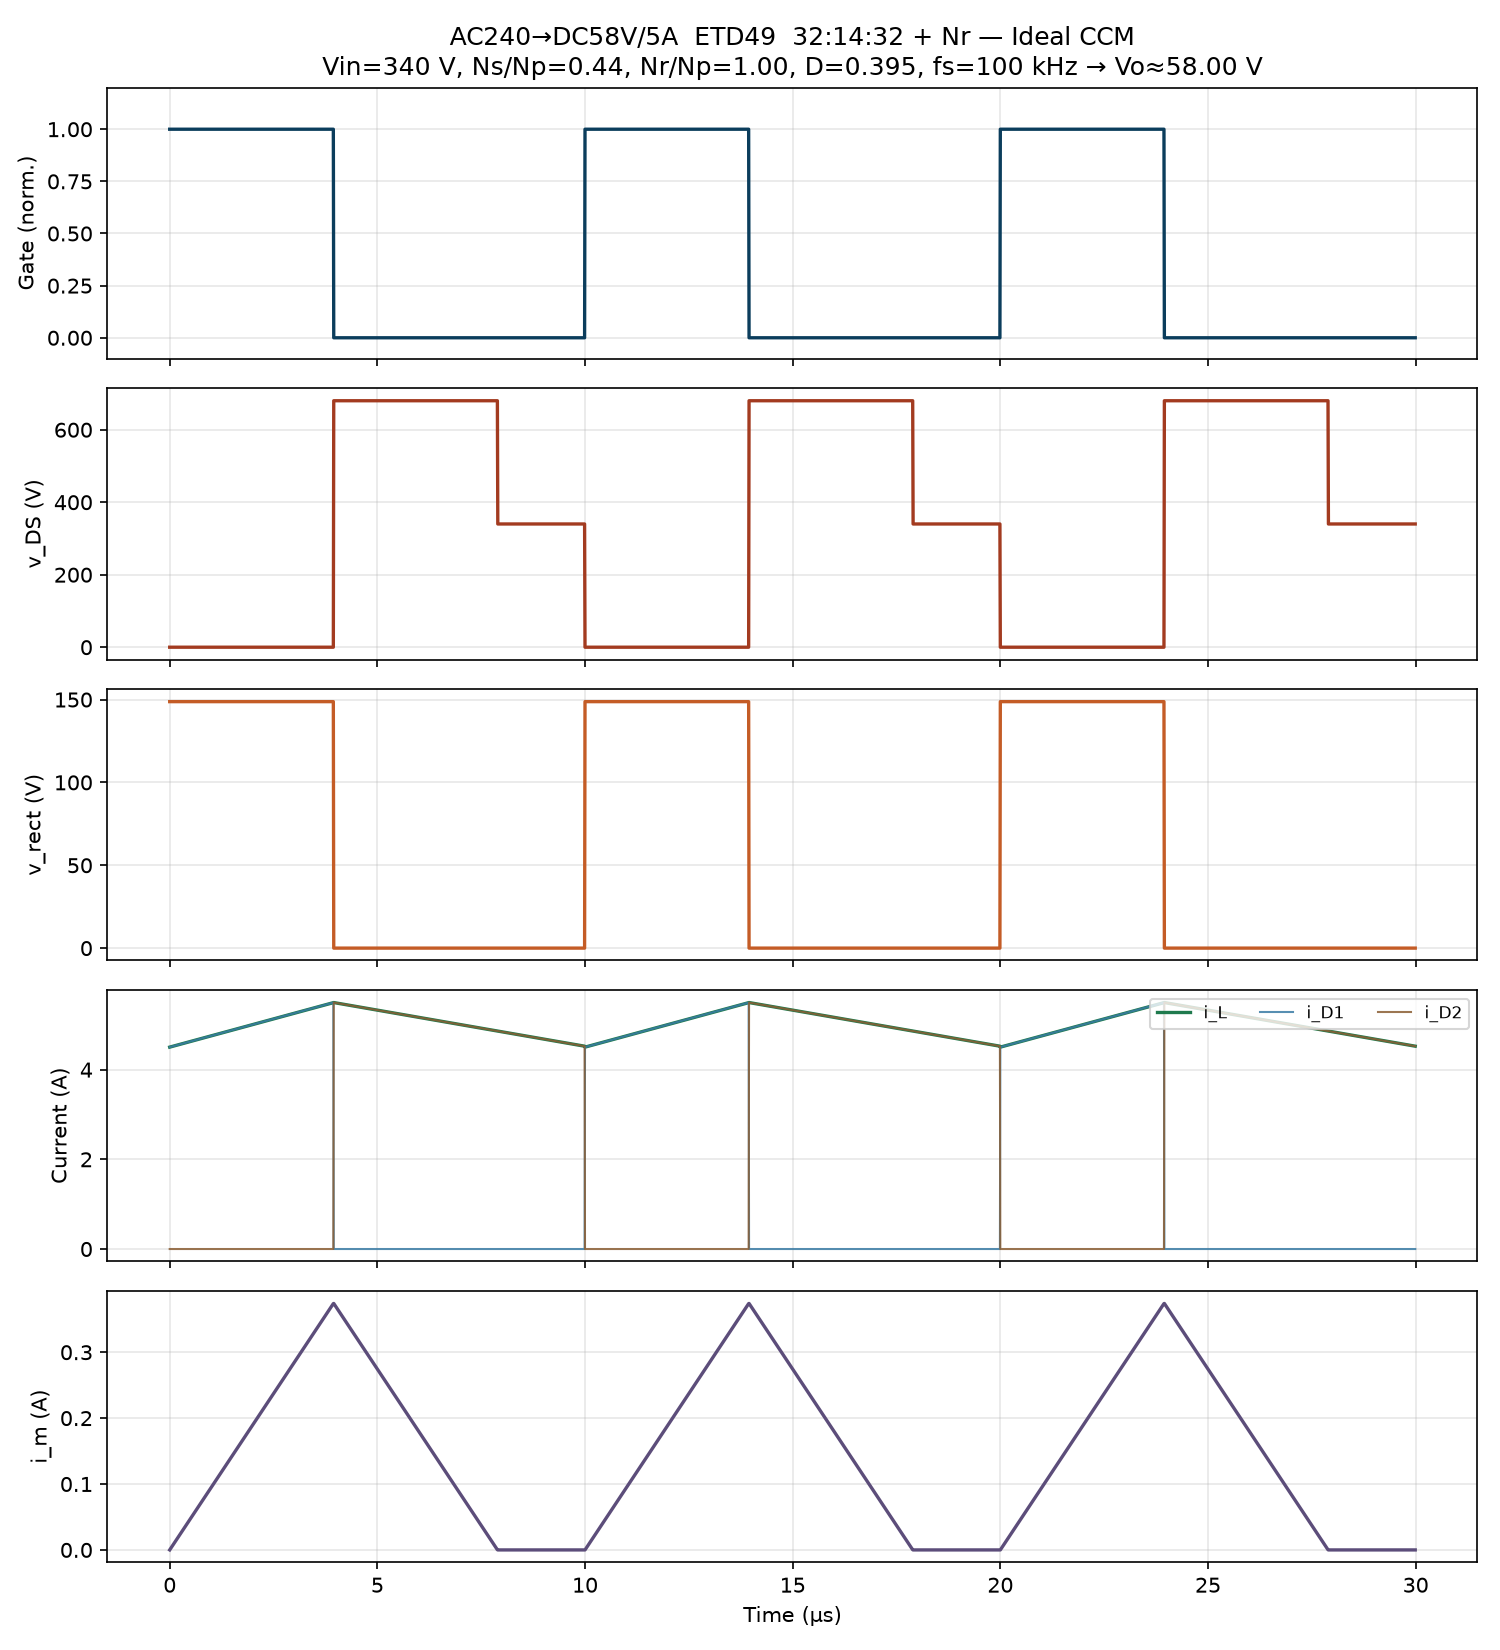
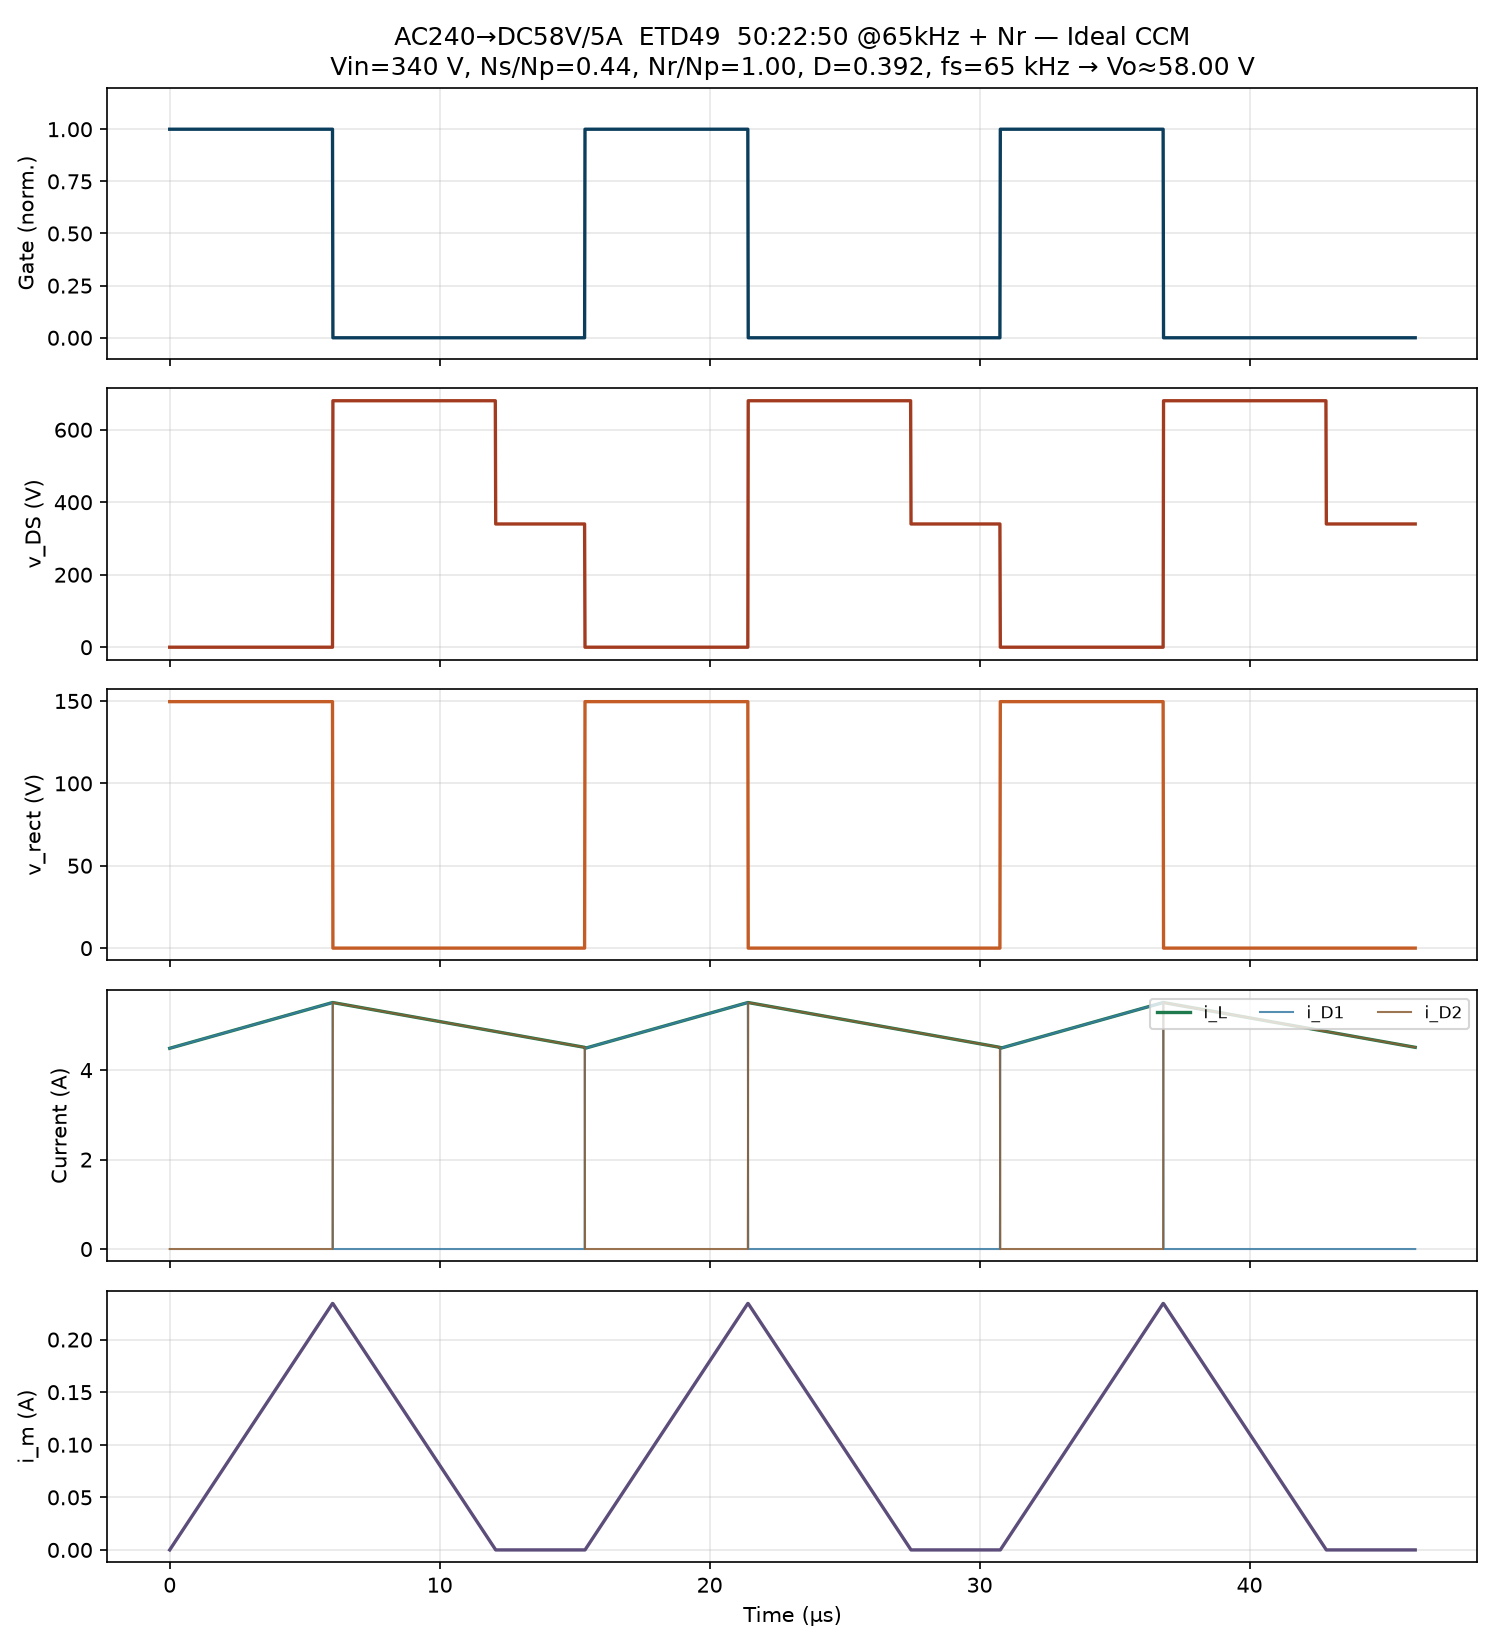
Support 50-67 kHz operation; default design to 65 kHz
Retarget ETD49 turns to 50:22:50 and L≈540 µH at 65 kHz, document
that 32:14:32 is only for 100 kHz, and add --fs to the design tool.

diff --git a/sim/design_240vac_58v_5a.py b/sim/design_240vac_58v_5a.py
@@ -3,7 +3,8 @@
 
 from __future__ import annotations
 
-from dataclasses import dataclass
+from dataclasses import dataclass, replace
+import argparse
 import math
 
 
@@ -384,7 +385,28 @@ def print_report(d: dict[str, float | str]) -> None:
 
 
 def main() -> None:
-    print_report(design())
+    parser = argparse.ArgumentParser(
+        description="ออกแบบ Forward + Nr บน ETD49 (รองรับ fs 50–100 kHz)"
+    )
+    parser.add_argument(
+        "--fs",
+        type=float,
+        default=65e3,
+        help="ความถี่สวิตช์ Hz (ค่าเริ่ม 65000; ช่วงที่ใช้ได้ 50e3–100e3)",
+    )
+    args = parser.parse_args()
+    fs = args.fs
+    if not 45e3 <= fs <= 120e3:
+        raise SystemExit("แนะนำ fs ในช่วงประมาณ 50–100 kHz")
+    # ที่ fs ต่ำกว่า 80 kHz ลด Bmax เล็กน้อยไม่จำเป็น — คง 0.20 T
+    spec = replace(Spec(), fs=fs)
+    # RCD กำลังลดตาม fs — Ll สมมติเดิม
+    print_report(design(spec))
+    if fs < 80e3:
+        print(
+            "หมายเหตุ: fs 50–67 kHz ใช้ได้ — ต้องเพิ่มจำนวนรอบและ L "
+            "(ห้ามใช้ขด 32:14:32 ของชุด 100 kHz)"
+        )
 
 
 if __name__ == "__main__":

diff --git a/sim/forward_converter.py b/sim/forward_converter.py
@@ -26,9 +26,9 @@ OUT_PNG_240 = OUT_DIR / "forward_240vac_58v_5a_nr_waveforms.png"
 
 
 def preset_240vac_nr() -> dict[str, float]:
-    """จุดทำงานปกติบน ETD49: Np:Ns:Nr=32:14:32, Vin≈340 V, Vo=58 V / 5 A."""
+    """จุดทำงานบน ETD49 @ 65 kHz: Np:Ns:Nr=50:22:50, Vin≈340 V, Vo=58 V / 5 A."""
     vin = 340.0
-    np_, ns, nr = 32.0, 14.0, 32.0
+    np_, ns, nr = 50.0, 22.0, 50.0
     n = ns / np_
     d = (58.0 + 0.7) / (vin * n)
     # Lm ≈ AL * Np^2, AL~3500 nH/N² (ETD49 N87 ungapped)
@@ -39,8 +39,8 @@ def preset_240vac_nr() -> dict[str, float]:
         "ns": ns,
         "nr": nr,
         "d": d,
-        "fs": 100e3,
-        "l": 360e-6,
+        "fs": 65e3,
+        "l": 540e-6,
         "io": 5.0,
         "lm": lm,
         "vo_target": 58.0,
@@ -203,7 +203,7 @@ def main() -> None:
         path = plot_waveforms(
             data,
             out_path=OUT_PNG_240,
-            title_prefix="AC240→DC58V/5A  ETD49  32:14:32 + Nr",
+            title_prefix="AC240→DC58V/5A  ETD49  50:22:50 @65kHz + Nr",
         )
     else:
         data = ideal_forward_waveforms()

diff --git a/docs/bom-240vac-58v-5a.md b/docs/bom-240vac-58v-5a.md
@@ -1,45 +1,48 @@
 # สรุปอุปกรณ์ — AC 240 V → DC 58 V / 5 A
 
-Single-Switch Forward + Nr | แกน ETD49 | \(f_s = 100\,\mathrm{kHz}\)
+Single-Switch Forward + Nr | แกน ETD49 | **\(f_s = 65\,\mathrm{kHz}\)** (ช่วงที่ใช้ได้ 50–67 kHz)
+
+> ถ้าใช้ 100 kHz ให้ดูคอลัมน์ทางเลือกด้านล่าง — **ขดหม้อแปลงและ L ไม่ใช้ค่าเดียวกัน**
 
 ## กำลังหลัก
 
-| สัญลักษณ์ | อุปกรณ์ | ค่า / รุ่น | หมายเหตุ |
-|-----------|---------|------------|----------|
-| BR1 | บริดจ์เรกติไฟเออร์ | **GBU606** หรือเทียบ ≥ 600 V / 6 A | อินพุต AC |
-| Cin | ตัวเก็บประจุบัส | **220 µF / 450 V** | หรือ 150–220 µF / 400–450 V |
-| Q1 | MOSFET | **STW20N95K5** (950 V, TO-247) | + ฮีตซิงก์ |
-| T1 | หม้อแปลง | **ETD49/25/16 (N87)** | \(N_p:N_s:N_r=\mathbf{32:14:32}\), ไม่เจาะ gap |
-| Dr | ไดโอดรีเซ็ต | **UF4007** (1 A / 1000 V) | alt: STTH112A |
-| D1 | ไดโอดฟอร์เวิร์ด | ultrafast / SiC **≥ 200–300 V**, ≥ 10 A pulse | \(I_{avg}\approx 2\,\mathrm{A}\) |
-| D2 | ไดโอดฟรีวีล | ultrafast / SiC **≥ 200–300 V**, ≥ 10 A pulse | \(I_{avg}\approx 3\,\mathrm{A}\) |
-| L | ตัวเหนี่ยวนำเอาต์พุต | **330–390 µH**, \(I_{sat}>7\,\mathrm{A}\) | เป้า ≈ 350 µH |
-| Co | ตัวเก็บประจุเอาต์พุต | **470–1000 µF / ≥ 80 V** + MLCC 10–22 µF | ESR ต่ำ |
+| สัญลักษณ์ | อุปกรณ์ | ค่า / รุ่น @ **65 kHz** | @ 100 kHz (ทางเลือก) |
+|-----------|---------|-------------------------|----------------------|
+| BR1 | บริดจ์ | **GBU606** ≥ 600 V / 6 A | เหมือนกัน |
+| Cin | ตัวเก็บประจุบัส | **220 µF / 450 V** | เหมือนกัน |
+| Q1 | MOSFET | **STW20N95K5** + ฮีตซิงก์ | เหมือนกัน (ร้อนจากสวิตชิ่งน้อยลงที่ 65 kHz) |
+| T1 | หม้อแปลง ETD49 N87 | **\(50:22:50\)** | \(32:14:32\) |
+| Dr | ไดโอดรีเซ็ต | **UF4007** | เหมือนกัน |
+| D1, D2 | ไดโอดทุติยภูมิ | ultrafast / SiC ≥ 200–300 V | เหมือนกัน |
+| L | ตัวเหนี่ยวนำเอาต์พุต | **500–560 µH**, \(I_{sat}>7\,\mathrm{A}\) | 330–390 µH |
+| Co | ตัวเก็บประจุเอาต์พุต | **470–1000 µF / ≥ 80 V** + MLCC | เหมือนกัน (ที่ fs ต่ำอาจใช้ด้านบนของช่วง) |
 
 ## RCD snubber (ที่ drain Q1)
 
-| สัญลักษณ์ | อุปกรณ์ | ค่า |
-|-----------|---------|-----|
-| Cs | ตัวเก็บประจุ | **1 nF / 1–2 kV** (C0G/ฟิล์ม) |
-| Rs | ตัวต้านทาน | **100 Ω / 10 W** wirewound (จูน 47–220 Ω) |
-| Ds | ไดโอด | **UF4007** (1 A / 1000 V) |
+| สัญลักษณ์ | ค่า @ 65 kHz | หมายเหตุ |
+|-----------|--------------|----------|
+| Cs | **1 nF / 1–2 kV** | เหมือนเดิม; spike สูง → 1.5–2.2 nF |
+| Rs | **100 Ω / 5–10 W** | ที่ 65 kHz กำลัง ≈ 0.65× ของ 100 kHz (~6 W ถ้า \(L_{\ell}=20\,\mu\mathrm{H}\)) |
+| Ds | **UF4007** | เหมือนกัน |
 
-## หม้อแปลง T1 — รายละเอียดขด
+## หม้อแปลง T1 @ 65 kHz
 
 | ขด | รอบ | ลวด |
 |----|------|-----|
-| \(N_p\) | 32 | Litz / หลายเส้น ≥ 0.39 mm² (≈ AWG 21+) |
-| \(N_s\) | 14 | Litz / หลายเส้น ≥ 0.70 mm² (≈ AWG 18+) |
-| \(N_r\) | 32 | ≥ 0.13 mm² (≈ AWG 24+) |
+| \(N_p\) | **50** | Litz ≥ 0.39 mm² (≈ AWG 21+) |
+| \(N_s\) | **22** | Litz ≥ 0.70 mm² (≈ AWG 18+) |
+| \(N_r\) | **50** | ≥ 0.13 mm² (≈ AWG 24+) |
 
-พัน interleaved (P–S–P หรือ P–S–R)
+- ไม่เจาะ gap, พัน interleaved  
+- ที่ **50 kHz** ใช้ประมาณ **64:28:64**, \(L\approx 710\,\mu\mathrm{H}\)  
+- ที่ **67 kHz** ใช้ประมาณ **48:21:48**, \(L\approx 520\,\mu\mathrm{H}\)
 
 ## ตัวอย่างไดโอดทุติยภูมิ (D1/D2)
 
 | ตัวเลือก | รุ่นตัวอย่าง |
 |----------|---------------|
 | Ultrafast Si | MUR820 / MUR860 / STTH1002 |
-| SiC Schottky | 650 V / ≥ 8–10 A (ลดสูญเสีย) |
+| SiC Schottky | 650 V / ≥ 8–10 A |
 
 ## อินพุต / ความปลอดภัย (แนะนำ)
 
@@ -48,21 +51,20 @@ Single-Switch Forward + Nr | แกน ETD49 | \(f_s = 100\,\mathrm{kHz}\)
 | ฟิวส์ | ~2–3 A ช้า / 250 VAC |
 | NTC inrush | ตามกระแสชาร์จ Cin |
 | EMI | ฟิลเตอร์ common-mode + X/Y cap |
-| ฉนวน | ตามมาตรฐานไฟบ้าน (ปฐมภูมิ–ทุติยภูมิ) |
 
 ## ควบคุม (ยังไม่ล็อกรุ่น)
 
 | รายการ | แนวทาง |
 |--------|--------|
-| PWM / current-mode | UC384x / คอนโทรลเลอร์ forward เฉพาะทาง |
-| Feedback | TL431 + ออปโต (PC817) จาก 58 V |
-| Gate drive | \(V_{GS}=10\text{–}12\,\mathrm{V}\) สำหรับ STW20N95K5 |
+| PWM | ตั้ง \(f_s=50\text{–}67\,\mathrm{kHz}\) (แนะนำ 65 kHz) |
+| Feedback | TL431 + ออปโต จาก 58 V |
+| Gate drive | \(V_{GS}=10\text{–}12\,\mathrm{V}\) |
 
-## จุดทำงานสรุป
+## จุดทำงานสรุป (@ 65 kHz)
 
 | รายการ | ค่า |
 |--------|-----|
 | \(V_o / I_o\) | 58 V / 5 A (290 W) |
-| \(V_{in}\) บัส | ≈ 300–373 V |
-| Duty @ 340 V | ≈ 0.40 |
+| Duty @ 340 V | ≈ 0.39 |
+| \(B_{\max}\) | ≈ 0.20 T |
 | \(V_{DS}\) ตอนรีเซ็ต | ≈ \(2V_{in}\) (~747 V max) |

diff --git a/docs/design-240vac-58v-5a.md b/docs/design-240vac-58v-5a.md
@@ -8,8 +8,27 @@
 | เอาต์พุต | DC **58 V / 5 A** (290 W) |
 | โทโพโลยี | **Single-ended Forward + tertiary reset winding \(N_r\)** |
 | แกนหม้อแปลง | **ETD49/25/16 (N87)** |
-| \(f_s\) | 100 kHz |
+| \(f_s\) | **50–67 kHz ได้** (แนะนำ **65 kHz**); เดิมคำนวณเทียบ 100 kHz ก็ได้ |
 | ประสิทธิภาพเป้า | ≈ 88–90% |
+
+### ความถี่ 50–67 kHz ใช้ได้ไหม?
+
+**ได้** — และเหมาะกับ STW20N95K5 (สวิตชิ่งร้อนน้อยลง, RCD ร้อนกว่าเดิมน้อยลง)  
+แต่ **ห้ามใช้ขด \(32:14:32\)** ของชุด 100 kHz เพราะ \(B\) จะพุ่ง ~0.30–0.40 T
+
+ต้องเพิ่ม \(N_p\) ตาม \(1/f_s\) และเพิ่ม \(L\) ตาม \(1/f_s\)
+
+| \(f_s\) | ขด \(N_p:N_s:N_r\) ( \(B_{\max}\approx 0.20\,\mathrm{T}\) ) | \(L\) (ΔI=1 A) |
+|---------|---------------------------------------------------------------|----------------|
+| **50 kHz** | **64:28:64** (หรือ 65:29:65) | ≈ **700–720 µH** |
+| **65 kHz** (แนะนำ) | **50:22:50** | ≈ **540 µH** |
+| **67 kHz** | **48:21:48** | ≈ **520 µH** |
+| 100 kHz (เดิม) | 32:14:32 | ≈ 350 µH |
+
+```bash
+python sim/design_240vac_58v_5a.py --fs 65000
+python sim/design_240vac_58v_5a.py --fs 50000
+```
 
 ---
 
@@ -91,7 +110,7 @@ n=\frac{N_s}{N_p}=\frac{58.7}{300\times 0.45}\approx 0.435
 \;\Rightarrow\;\textbf{ใช้ }n=0.44
 \]
 
-ตัวอย่างรอบขดบน **ETD49**: **\(N_p:N_s:N_r = 32:14:32\)** (ดูหมวดแกนด้านล่าง)
+ตัวอย่างรอบขดบน **ETD49 @ 65 kHz**: **\(N_p:N_s:N_r = 50:22:50\)** (ที่ 100 kHz ใช้ 32:14:32)
 
 | \(V_{in}\) | \(D=(V_o+V_f)/(V_{in}n)\) |
 |------------|---------------------------|
@@ -107,16 +126,16 @@ n=\frac{N_s}{N_p}=\frac{58.7}{300\times 0.45}\approx 0.435
 
 ## 5. LC เอาต์พุต
 
-เป้า \(\Delta I_L=20\%\times 5\,\mathrm{A}=1\,\mathrm{A}\), \(f_s=100\,\mathrm{kHz}\):
+เป้า \(\Delta I_L=20\%\times 5\,\mathrm{A}=1\,\mathrm{A}\), **\(f_s=65\,\mathrm{kHz}\)**:
 
 \[
 L=\frac{V_o(1-D)}{f_s\,\Delta I_L}
-\approx\frac{58\times(1-0.39)}{10^5\times 1}\approx 350\,\mu\mathrm{H}
+\approx\frac{58\times(1-0.39)}{65\times 10^3\times 1}\approx 540\,\mu\mathrm{H}
 \]
 
-| ส่วน | ค่าแนะนำ |
-|------|----------|
-| \(L\) | **330–390 µH**, \(I_{sat}>7\,\mathrm{A}\) |
+| ส่วน | ค่าแนะนำ @ 65 kHz |
+|------|---------------------|
+| \(L\) | **500–560 µH**, \(I_{sat}>7\,\mathrm{A}\) |
 | \(C_o\) | **470–1000 µF** / ≥ 80 V + MLCC (ESR ต่ำ) |
 
 ---
@@ -250,22 +269,21 @@ P_R \approx \tfrac12 L_{\ell} I_p^2 f_s
 N_p \ge \frac{V_{in,min}\,D_{\max}}{A_e\,B_{\max}\,f_s}
 \]
 
-ด้วย \(B_{\max}=0.20\,\mathrm{T}\), \(f_s=100\,\mathrm{kHz}\):
+ด้วย \(B_{\max}=0.20\,\mathrm{T}\), **\(f_s=65\,\mathrm{kHz}\)** (แนะนำในย่าน 50–67 kHz):
 
 \[
-N_p \ge \frac{300.5\times 0.45}{211\times 10^{-6}\times 0.20\times 10^5} \approx 32
+N_p \ge \frac{300.5\times 0.45}{211\times 10^{-6}\times 0.20\times 65\times 10^3} \approx 50
 \]
 
-| ขด | รอบ | ลวด (แนวทาง, ใช้ Litz/หลายเส้น @ 100 kHz) |
-|----|------|---------------------------------------------|
-| \(N_p\) | **32** | ≈ 0.4 mm² Cu (≈ AWG 21+) |
-| \(N_s\) | **14** | ≈ 0.7 mm² Cu (≈ AWG 18+) |
-| \(N_r\) | **32** | บางกว่าปฐมภูมิได้ (~0.15 mm²) |
+| ขด | รอบ @ 65 kHz | ลวด (Litz/หลายเส้น) |
+|----|----------------|----------------------|
+| \(N_p\) | **50** | ≈ 0.4 mm² Cu (≈ AWG 21+) |
+| \(N_s\) | **22** | ≈ 0.7 mm² Cu (≈ AWG 18+) |
+| \(N_r\) | **50** | ~0.15 mm² |
 
-- \(n = 14/32 = 0.4375\)
-- \(B\) ที่จุดทำงาน ≈ 0.18–0.20 T
-- พัน **interleaved** (เช่น P–S–P หรือ P–S–R) ลด leakage
-- กระสวย ETD49 มาตรฐาน + เทปฉนวนปฐมภูมิ–ทุติยภูมิตามไฟบ้าน
+- \(n = 22/50 = 0.44\), \(B\approx 0.20\,\mathrm{T}\)
+- พัน **interleaved** ลด leakage
+- ที่ 100 kHz ใช้ \(32:14:32\) แทน (ดูตารางความถี่ด้านบน)
 
 ---
 
@@ -276,11 +294,11 @@ N_p \ge \frac{300.5\times 0.45}{211\times 10^{-6}\times 0.20\times 10^5} \approx
 | บริดจ์ AC | 600 V / ≥ 4 A |
 | \(C_{in}\) | 150–220 µF / 400–450 V |
 | Q1 | **STW20N95K5** (950 V, TO-247) + ฮีตซิงก์ |
-| RCD | **Cs 1 nF / 1–2 kV**, **Rs 100 Ω / 5–7 W**, **Ds UF4007** |
-| หม้อแปลง | **ETD49/25/16**, \(N_p:N_s:N_r = 32:14:32\) |
+| RCD | **Cs 1 nF / 1–2 kV**, **Rs 100 Ω / 10 W**, **Ds UF4007** |
+| หม้อแปลง | **ETD49/25/16**, \(N_p:N_s:N_r = 50:22:50\) (@ 65 kHz) |
 | Dr | **UF4007** (1 A / 1000 V) หรือ STTH112A |
 | D1, D2 | ultrafast / SiC Schottky ≥ 200 V |
-| \(L\) | 330–390 µH |
+| \(L\) | 500–560 µH (@ 65 kHz) |
 | \(C_o\) | 470–1000 µF / ≥ 80 V |
 
 ---

diff --git a/README.md b/README.md
@@ -10,28 +10,30 @@
 | [docs/design-240vac-58v-5a.md](docs/design-240vac-58v-5a.md) | ออกแบบ **AC 240 V → DC 58 V / 5 A** แบบสวิตช์เดียว + Nr |
 | [docs/bom-240vac-58v-5a.md](docs/bom-240vac-58v-5a.md) | **สรุปอุปกรณ์ (BOM)** |
 | [sim/design_240vac_58v_5a.py](sim/design_240vac_58v_5a.py) | เครื่องคิดเลขพารามิเตอร์ |
-| [sim/forward_converter.py](sim/forward_converter.py) | จำลอง waveform (รวมโหมด 240vac-nr) |
+| [sim/forward_converter.py](sim/forward_converter.py) | จำลอง waveform |
 | [requirements.txt](requirements.txt) | dependencies |
 
-## ออกแบบสเปก AC 240 V → 58 V / 5 A (สวิตช์เดียว + Nr)
+## ออกแบบสเปก AC 240 V → 58 V / 5 A
+
+**ความถี่ 50–67 kHz ใช้ได้** — แนะนำ **65 kHz**
 
 ```bash
 pip install -r requirements.txt
-python sim/design_240vac_58v_5a.py
+python sim/design_240vac_58v_5a.py --fs 65000
+python sim/design_240vac_58v_5a.py --fs 50000   # ขอบล่าง
 python sim/forward_converter.py --design 240vac-nr
 ```
 
-จุดออกแบบหลักเมื่อ \(N_r = N_p\) บนแกน **ETD49/25/16 (N87)**:
+จุดออกแบบหลัก (\(N_r = N_p\), แกน **ETD49**, **65 kHz**):
 
-- ขด \(N_p:N_s:N_r = \mathbf{32:14:32}\) (\(n=0.4375\), \(B_{\max}\approx 0.20\,\mathrm{T}\))
-- \(D_{\max} \approx 0.45\), ที่ \(V_{in}=340\,\mathrm{V}\) ได้ \(D\approx 0.39\)
-- \(V_{DS,max}\approx 2V_{in}\) → MOSFET **STW20N95K5** (950 V, TO-247)
-- RCD: **Cs = 1 nF / 1–2 kV**, **Rs = 100 Ω / 10 W**, **Ds = UF4007**
-- ไดโอดรีเซ็ต **Dr = UF4007** (1 A / 1000 V) หรือ STTH112A
-- \(L \approx 350\,\mu\mathrm{H}\), \(C_o = 470\text{–}1000\,\mu\mathrm{F}\)
+- ขด \(N_p:N_s:N_r = \mathbf{50:22:50}\) (\(B_{\max}\approx 0.20\,\mathrm{T}\))
+- MOSFET **STW20N95K5** + RCD (**1 nF**, **100 Ω / 5–10 W**, UF4007)
+- Dr **UF4007**
+- \(L \approx 540\,\mu\mathrm{H}\), \(C_o = 470\text{–}1000\,\mu\mathrm{F}\)
+- ห้ามใช้ขด 32:14:32 กับ fs 50–67 kHz (B จะสูงเกิน)
 
 ## สรุปโทโพโลยี
 
-- ส่งพลังงานตอนสวิตช์เปิด: \(V_o = V_{in}\cdot(N_s/N_p)\cdot D\)
-- รีเซ็ตฟลักซ์ด้วยขด Nr: \(D_{\max}\le N_p/(N_p+N_r)\)
-- ความเครียดสวิตช์: \(V_{DS}\approx V_{in}(1+N_p/N_r)\)
+- \(V_o = V_{in}\cdot(N_s/N_p)\cdot D\)
+- รีเซ็ตด้วย Nr: \(D_{\max}\le N_p/(N_p+N_r)\)
+- \(V_{DS}\approx V_{in}(1+N_p/N_r)\)
